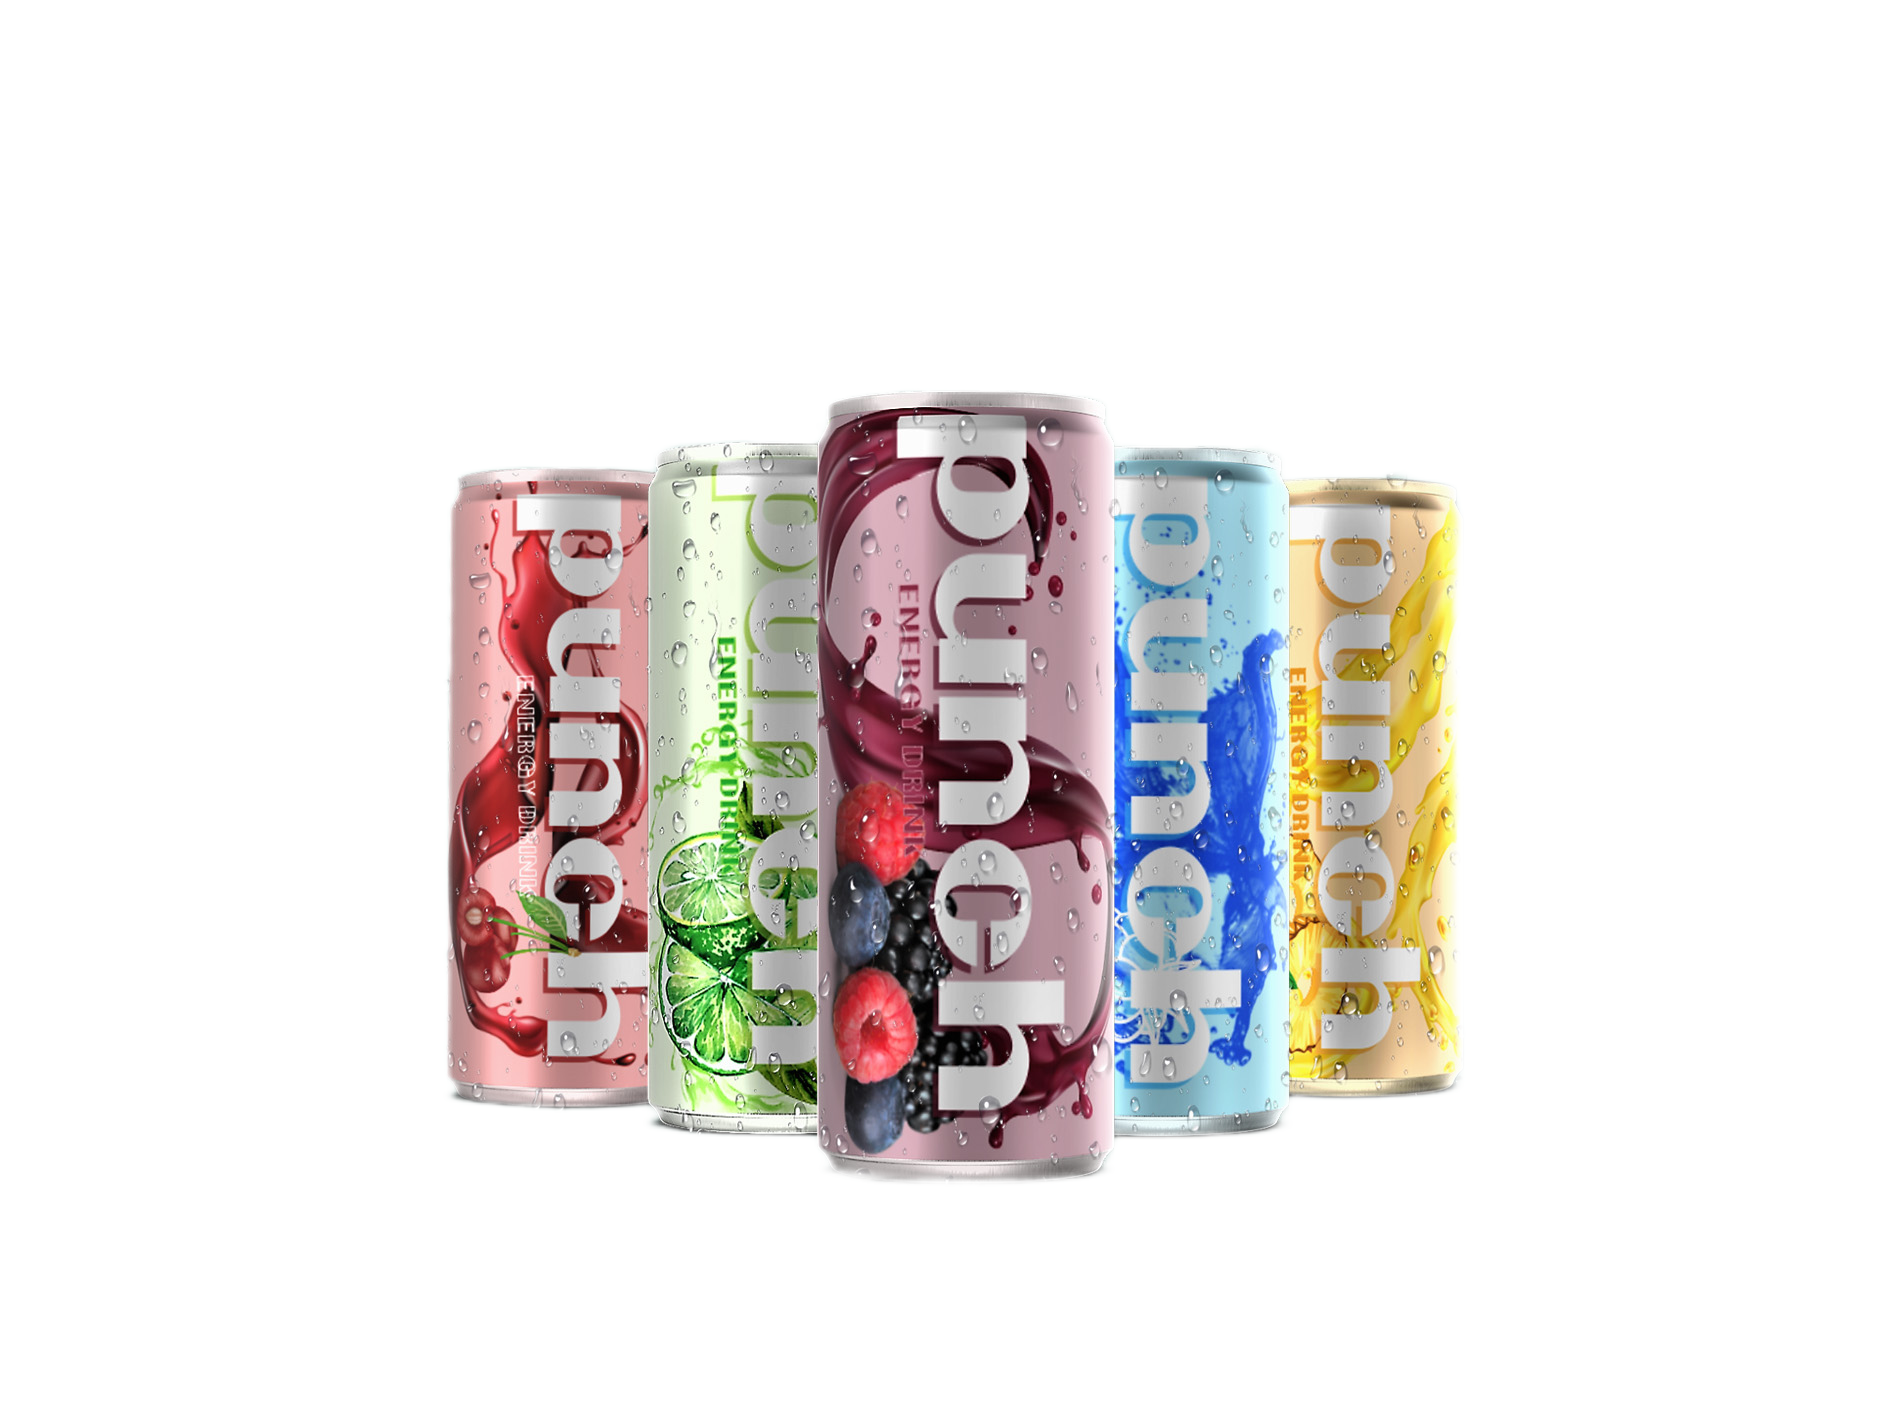
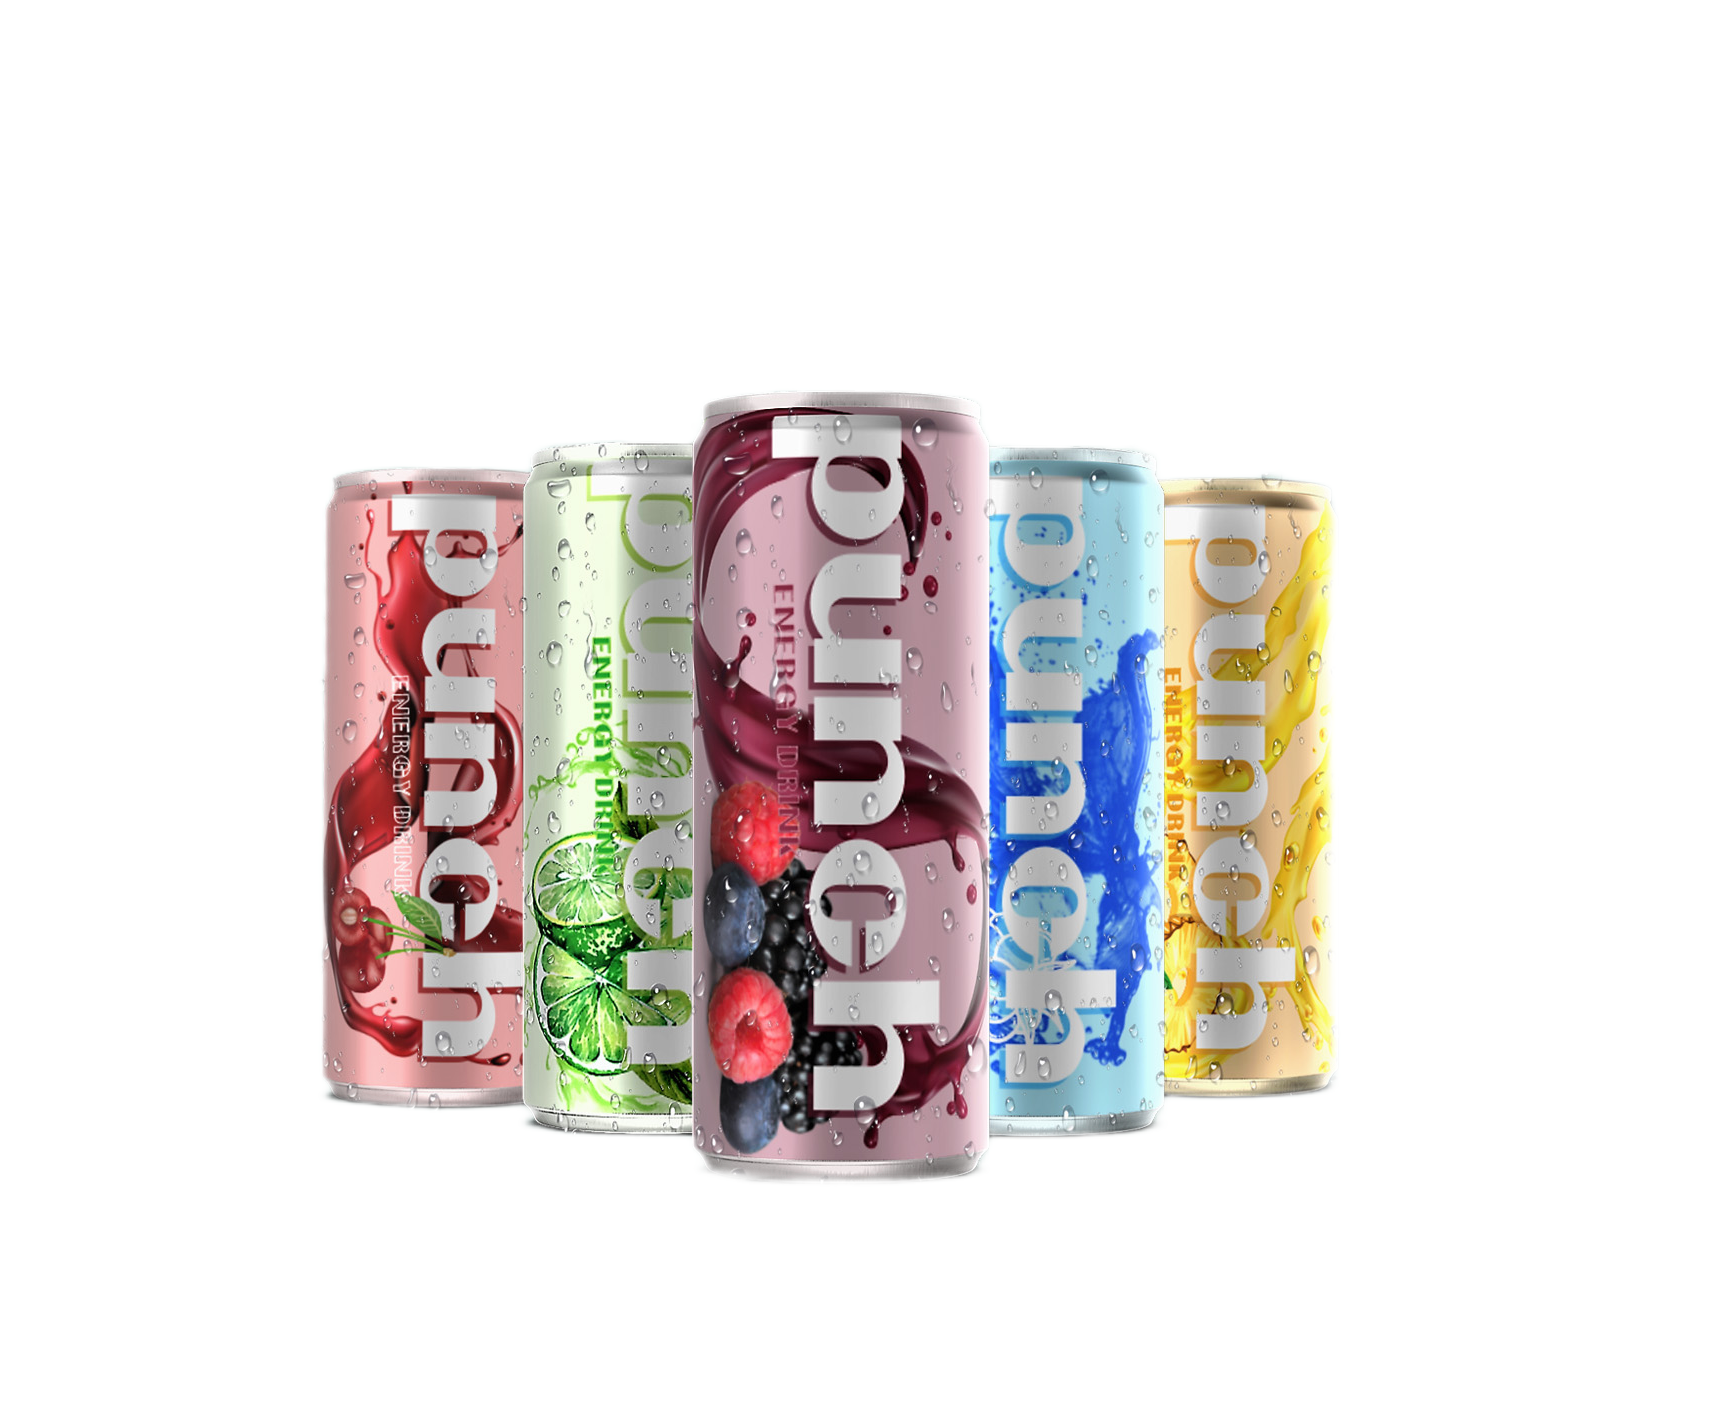
tweaks

Changed region(s): [[0.1861, 0.2795, 0.8063, 0.8384]]

diff --git a/public/assets/css/main.css b/public/assets/css/main.css
@@ -914,7 +914,7 @@ body .about {
 
 .abimage img {
     height: auto;
-    width: 90%;
+    width: 110%;
     display: block;
     margin: auto;
 }
